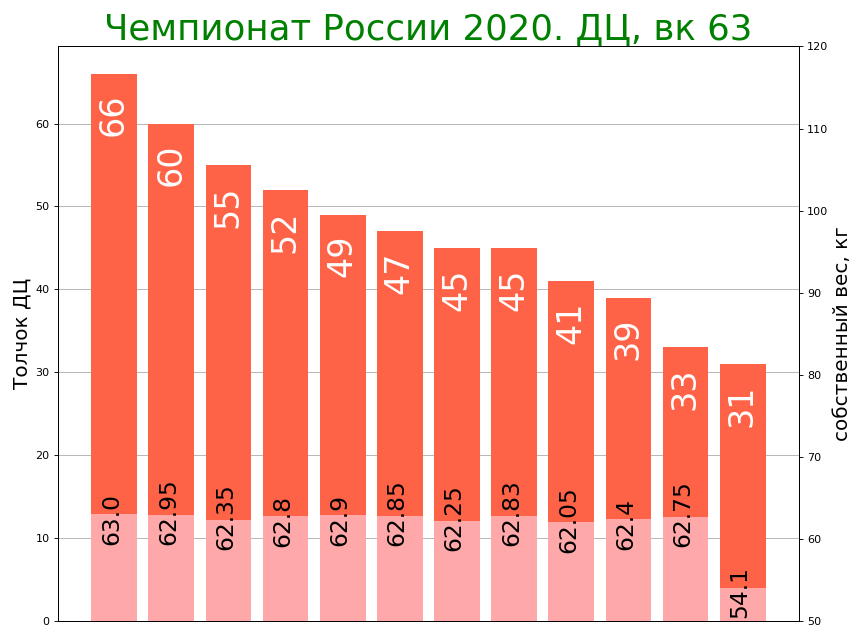
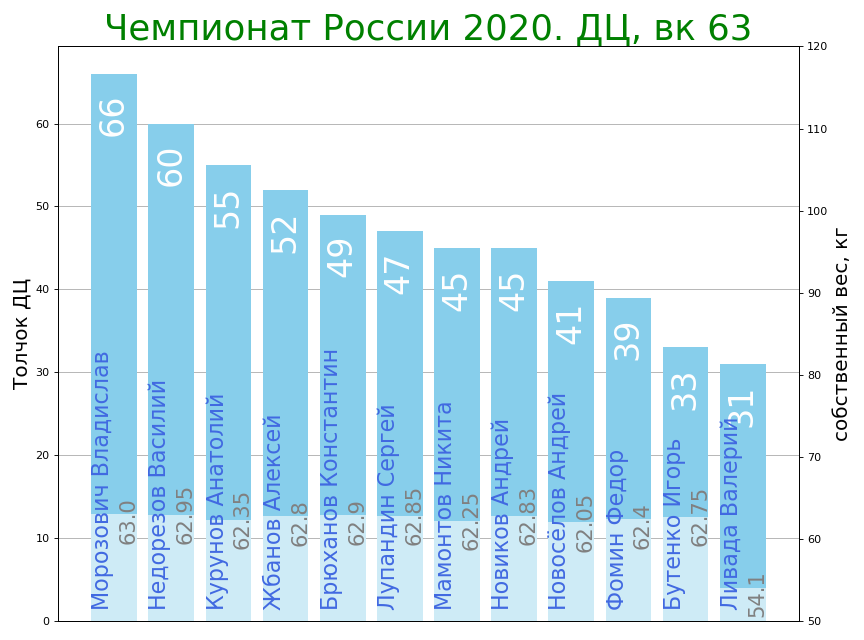
update images

diff --git a/pages/RC2020.md b/pages/RC2020.md
@@ -55,7 +55,7 @@
 
 ![image](../images/bar_resultsLC85+_CR_2020.png)
 
-Ниже - те же результаты, только с указанием веса спортсменов в виде таких же столбчатых диаграмм. 
+Ниже - те же результаты, только с указанием веса спортсменов в виде таких же столбчатых диаграмм наложенных сверху. 
 
 ![image](../images/bar_results_weightLC63_CR_2020.png)
 
